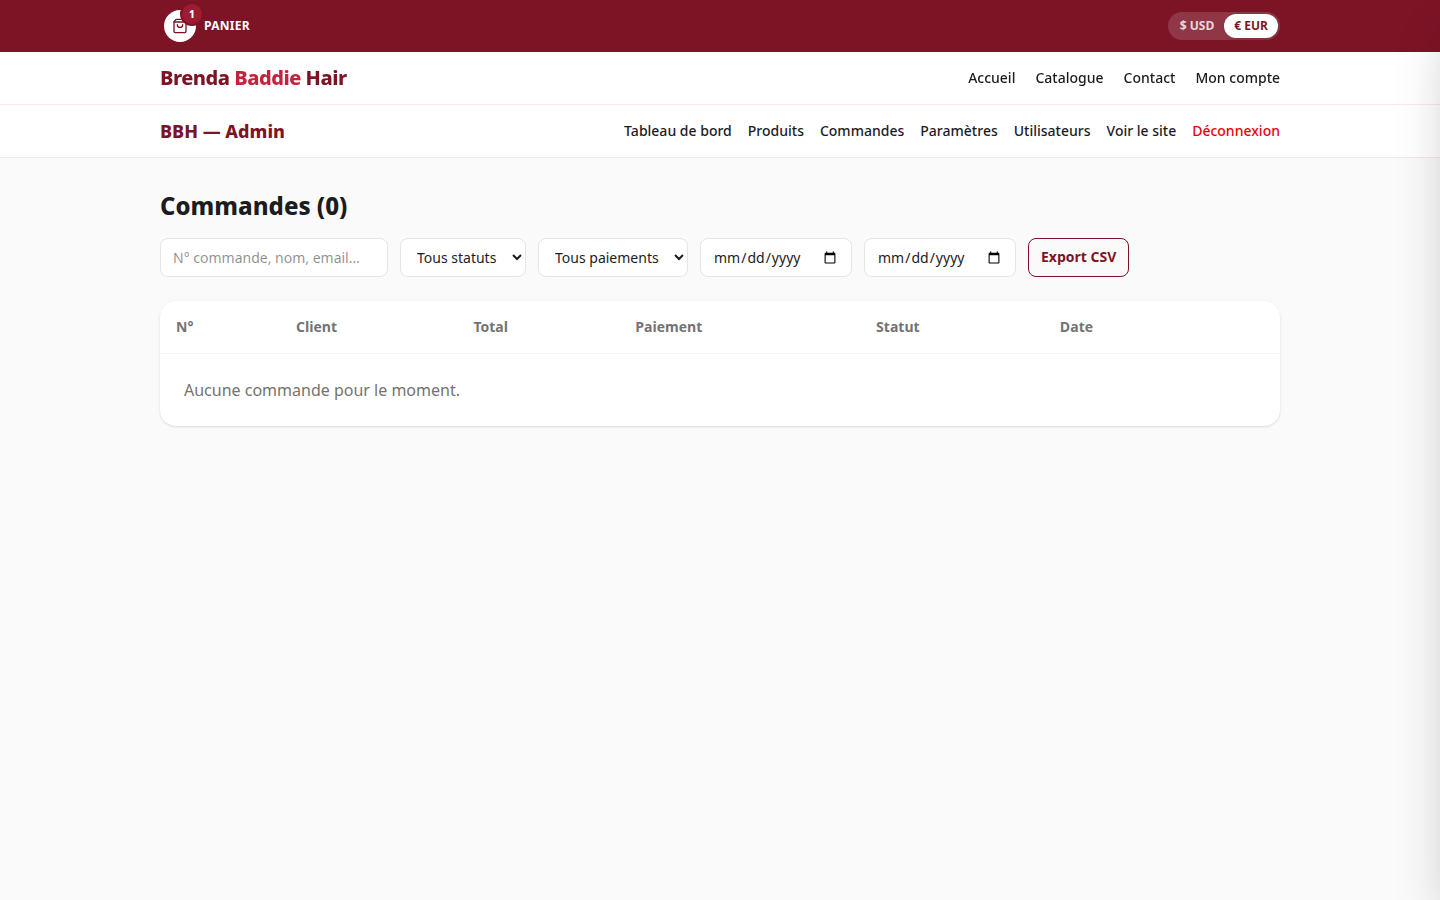
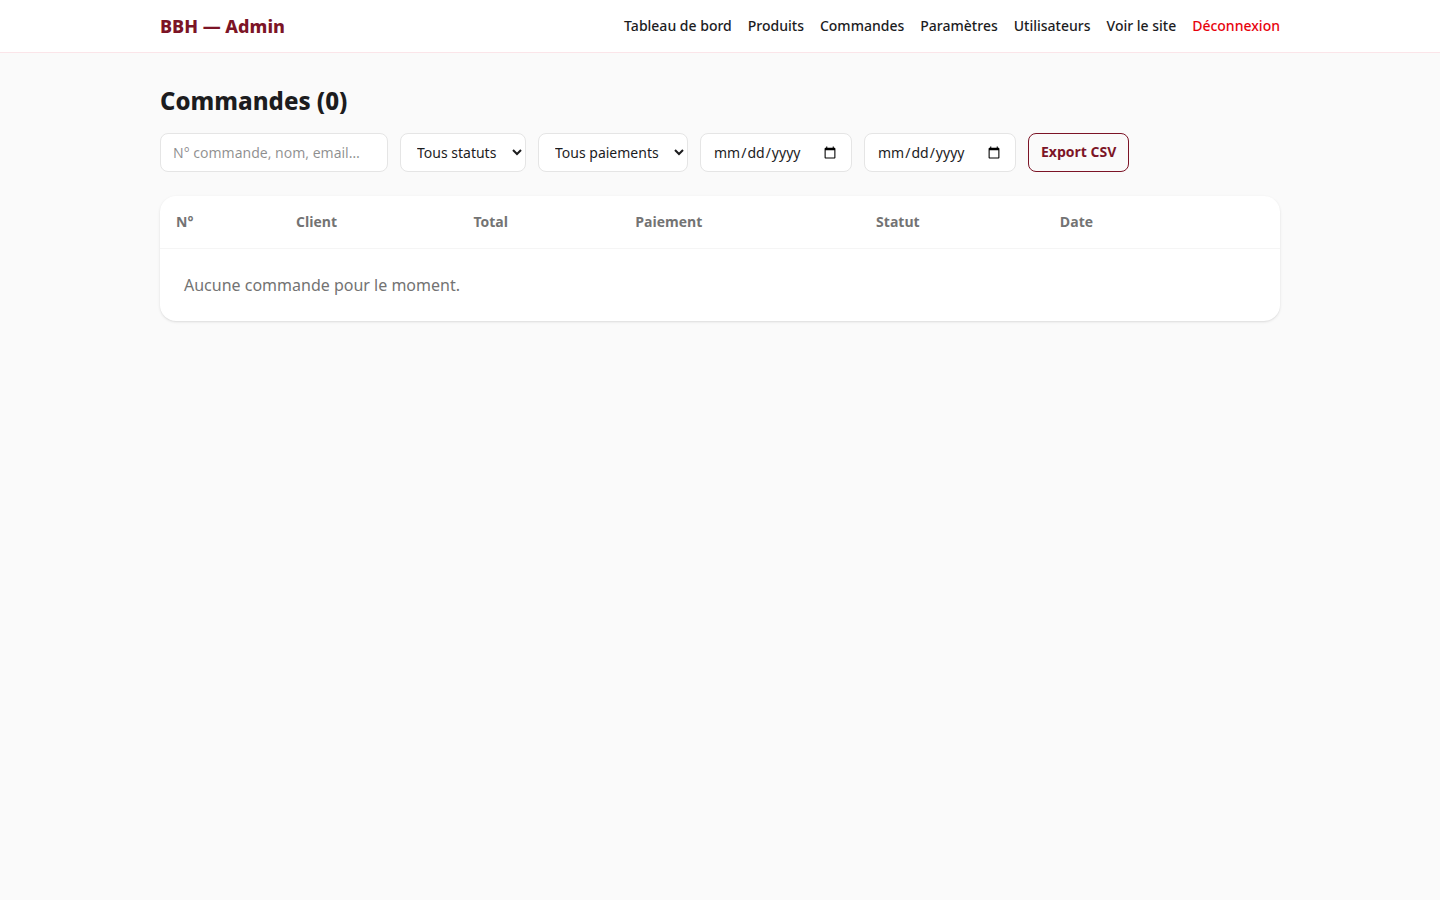
Panier à droite, devise par IP sans sélecteur, backoffice sans double header
- Barre utilitaire : icône panier déplacée à droite, sélecteur de devise retiré
- Devise détectée automatiquement : géolocalisation IP (ipwho.is, continent EU -> EUR)
  avec repli immédiat sur le fuseau horaire du navigateur, sans appel au chargement
  si l'IP est injoignable ; plus de choix manuel ni de localStorage
- Backoffice : le header/footer de la boutique ne s'affichent plus sur /admin
  (un seul header dans l'admin)
- Restructuration en groupe de routes (site)/ : le layout boutique (header, footer,
  panier, WhatsApp) ne s'applique qu'au site, l'admin garde son propre layout.
  (Corrige aussi un cas où usePathname() dans le layout racine cassait
  l'hydratation React.)
- Captures d'écran régénérées

diff --git a/src/lib/currency.tsx b/src/lib/currency.tsx
@@ -13,19 +13,19 @@ export type Currency = "EUR" | "USD";
 
 interface CurrencyContextValue {
   currency: Currency;
-  setCurrency: (c: Currency) => void;
   /** Formate un prix dans la devise active (EUR en Europe, USD ailleurs). */
   format: (usd: number, eur: number) => string;
 }
 
 const CurrencyContext = createContext<CurrencyContextValue | null>(null);
-const STORAGE_KEY = "bbh-currency";
 
 /**
- * Détection géographique simple, sans appel réseau : si le fuseau horaire
- * du visiteur est européen, on affiche les prix en euros, sinon en dollars.
+ * Détection géographique du visiteur :
+ * 1. immédiate via le fuseau horaire (Europe/ → EUR),
+ * 2. affinée via la géolocalisation de son IP (continent EU → EUR).
+ * Sans sélecteur manuel : la devise suit toujours la zone du visiteur.
  */
-function detectCurrency(): Currency {
+function detectFromTimezone(): Currency {
   try {
     const tz = Intl.DateTimeFormat().resolvedOptions().timeZone ?? "";
     if (tz.startsWith("Europe/")) return "EUR";
@@ -35,34 +35,36 @@ function detectCurrency(): Currency {
   return "USD";
 }
 
+async function detectFromIP(signal: AbortSignal): Promise<Currency | null> {
+  try {
+    const res = await fetch("https://ipwho.is/", { signal });
+    if (!res.ok) return null;
+    const data = await res.json();
+    if (typeof data?.continent_code !== "string") return null;
+    return data.continent_code === "EU" ? "EUR" : "USD";
+  } catch {
+    return null;
+  }
+}
+
 export function CurrencyProvider({ children }: { children: ReactNode }) {
   // USD par défaut pour éviter tout décalage d'hydratation ;
   // la vraie devise est détectée au montage côté client.
-  const [currency, setCurrencyState] = useState<Currency>("USD");
+  const [currency, setCurrency] = useState<Currency>("USD");
 
   useEffect(() => {
-    try {
-      const saved = localStorage.getItem(STORAGE_KEY);
-      if (saved === "EUR" || saved === "USD") {
-        setCurrencyState(saved);
-        return;
-      }
-    } catch {
-      /* stockage indisponible */
-    }
-    setCurrencyState(detectCurrency());
+    const controller = new AbortController();
+    // Réponse immédiate via le fuseau horaire…
+    setCurrency(detectFromTimezone());
+    // …puis affinement via l'IP du visiteur.
+    detectFromIP(controller.signal).then((c) => {
+      if (c) setCurrency(c);
+    });
+    return () => controller.abort();
   }, []);
 
   const value: CurrencyContextValue = {
     currency,
-    setCurrency(c: Currency) {
-      setCurrencyState(c);
-      try {
-        localStorage.setItem(STORAGE_KEY, c);
-      } catch {
-        /* stockage indisponible */
-      }
-    },
     format(usd: number, eur: number) {
       return currency === "EUR" ? formatEUR(eur) : formatUSD(usd);
     },

diff --git a/src/components/Header.tsx b/src/components/Header.tsx
@@ -3,40 +3,7 @@
 import Link from "next/link";
 import { useSession, signOut } from "next-auth/react";
 import { useCart } from "@/lib/cart";
-import { useCurrency, type Currency } from "@/lib/currency";
 import { BagIcon } from "./CartDrawer";
-
-function CurrencyToggle() {
-  const { currency, setCurrency } = useCurrency();
-  const options: { value: Currency; label: string }[] = [
-    { value: "USD", label: "$ USD" },
-    { value: "EUR", label: "€ EUR" },
-  ];
-  return (
-    <div
-      className="flex items-center rounded-full bg-white/15 p-0.5 text-xs font-bold"
-      role="group"
-      aria-label="Devise d'affichage"
-      title="Devise détectée selon votre zone géographique"
-    >
-      {options.map((o) => (
-        <button
-          key={o.value}
-          type="button"
-          onClick={() => setCurrency(o.value)}
-          aria-pressed={currency === o.value}
-          className={`rounded-full px-2.5 py-1 transition ${
-            currency === o.value
-              ? "bg-white text-brand-700 shadow"
-              : "text-white/80 hover:text-white"
-          }`}
-        >
-          {o.label}
-        </button>
-      ))}
-    </div>
-  );
-}
 
 export default function Header() {
   const { count, openCart } = useCart();
@@ -46,9 +13,9 @@ export default function Header() {
   const isLoggedIn = !!session?.user;
   return (
     <div className="sticky top-0 z-40">
-      {/* Barre utilitaire au-dessus du header : panier à gauche */}
+      {/* Barre utilitaire au-dessus du header : panier à droite */}
       <div className="bg-brand-700 text-white">
-        <div className="mx-auto flex max-w-6xl items-center justify-between px-4 py-1.5">
+        <div className="mx-auto flex max-w-6xl items-center justify-end px-4 py-1.5">
           <button
             type="button"
             onClick={openCart}
@@ -66,7 +33,6 @@ export default function Header() {
               Panier
             </span>
           </button>
-          <CurrencyToggle />
         </div>
       </div>
       <header className="border-b border-brand-100 bg-white/95 backdrop-blur">

diff --git a/src/app/layout.tsx b/src/app/layout.tsx
@@ -2,10 +2,6 @@ import type { Metadata } from "next";
 import { SessionProvider } from "next-auth/react";
 import { CartProvider } from "@/lib/cart";
 import { CurrencyProvider } from "@/lib/currency";
-import Header from "@/components/Header";
-import Footer from "@/components/Footer";
-import CartDrawer from "@/components/CartDrawer";
-import WhatsappChat from "@/components/WhatsappChat";
 import "./globals.css";
 
 export const metadata: Metadata = {
@@ -20,13 +16,7 @@ export default function RootLayout({ children }: { children: React.ReactNode }) 
       <body>
         <SessionProvider>
           <CartProvider>
-            <CurrencyProvider>
-            <Header />
-            <main className="min-h-[70vh]">{children}</main>
-            <Footer />
-            <CartDrawer />
-            <WhatsappChat />
-            </CurrencyProvider>
+            <CurrencyProvider>{children}</CurrencyProvider>
           </CartProvider>
         </SessionProvider>
       </body>

diff --git a/src/app/(site)/layout.tsx b/src/app/(site)/layout.tsx
@@ -1,0 +1,20 @@
+import Header from "@/components/Header";
+import Footer from "@/components/Footer";
+import CartDrawer from "@/components/CartDrawer";
+import WhatsappChat from "@/components/WhatsappChat";
+
+/**
+ * Habillage de la boutique : header, panier et footer.
+ * Le backoffice (/admin) a son propre layout, sans cet habillage.
+ */
+export default function SiteLayout({ children }: { children: React.ReactNode }) {
+  return (
+    <>
+      <Header />
+      <main className="min-h-[70vh]">{children}</main>
+      <Footer />
+      <CartDrawer />
+      <WhatsappChat />
+    </>
+  );
+}
